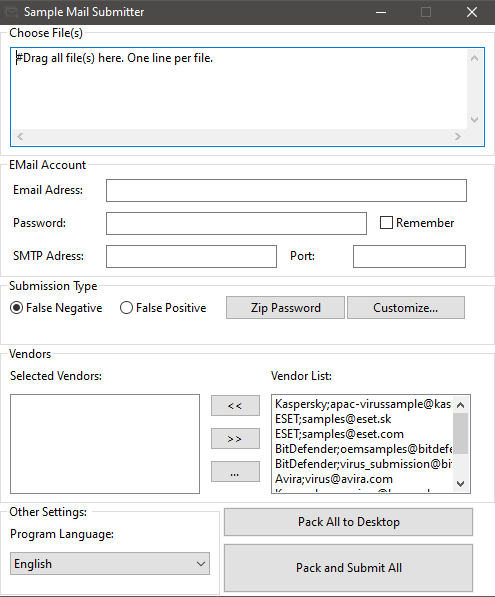
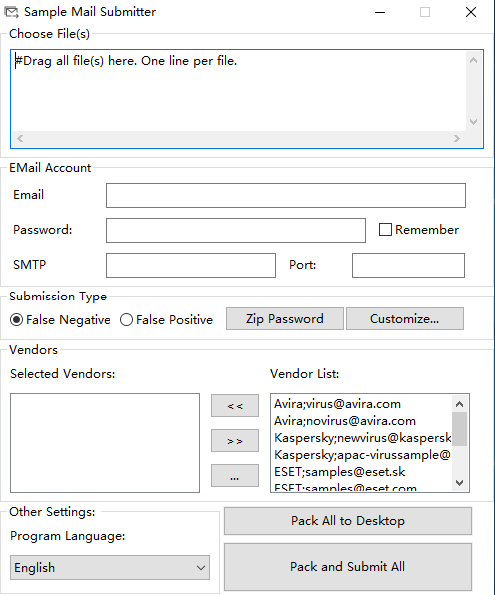
Bug fix

Changed region(s): [[0.0, 0.0, 1.0, 1.0], [0.0, 0.363, 0.1515, 0.3933]]

diff --git a/GUI.py b/GUI.py
@@ -10,7 +10,7 @@
 import wx
 import wx.xrc
 
-import gettext
+# For i18n support
 _ = wx.GetTranslation
 
 ###########################################################################
@@ -39,7 +39,7 @@ class main_frame ( wx.Frame ):
 
 		wSizer1 = wx.WrapSizer( wx.HORIZONTAL, wx.WRAPSIZER_DEFAULT_FLAGS )
 
-		self.m_staticText2 = wx.StaticText( sbSizer2.GetStaticBox(), wx.ID_ANY, _(u"Email Adress: "), wx.DefaultPosition, wx.Size( 80,-1 ), wx.ALIGN_LEFT )
+		self.m_staticText2 = wx.StaticText( sbSizer2.GetStaticBox(), wx.ID_ANY, _(u"Email Address: "), wx.DefaultPosition, wx.Size( 80,-1 ), wx.ALIGN_LEFT )
 		self.m_staticText2.Wrap( -1 )
 
 		wSizer1.Add( self.m_staticText2, 0, wx.ALL, 8 )
@@ -58,7 +58,7 @@ class main_frame ( wx.Frame ):
 		self.reme_ps_check = wx.CheckBox( sbSizer2.GetStaticBox(), wx.ID_ANY, _(u"Remember"), wx.DefaultPosition, wx.DefaultSize, 0 )
 		wSizer1.Add( self.reme_ps_check, 0, wx.ALL, 8 )
 
-		self.m_staticText4 = wx.StaticText( sbSizer2.GetStaticBox(), wx.ID_ANY, _(u"SMTP Adress: "), wx.DefaultPosition, wx.Size( 80,-1 ), wx.ALIGN_LEFT )
+		self.m_staticText4 = wx.StaticText( sbSizer2.GetStaticBox(), wx.ID_ANY, _(u"SMTP Address: "), wx.DefaultPosition, wx.Size( 80,-1 ), wx.ALIGN_LEFT )
 		self.m_staticText4.Wrap( -1 )
 
 		wSizer1.Add( self.m_staticText4, 0, wx.ALL, 8 )

diff --git a/Sender.py b/Sender.py
@@ -159,6 +159,7 @@ class SendingThread(threading.Thread):
                                   'Error: {error}\nInfo: {info}'.format(error=e.__class__.__name__, info=str(e)),
                           caption=_('ERROR'),
                           style=wx.OK | wx.ICON_ERROR)
+            sample.delete_zip()
             status.Destroy()
             return
 
